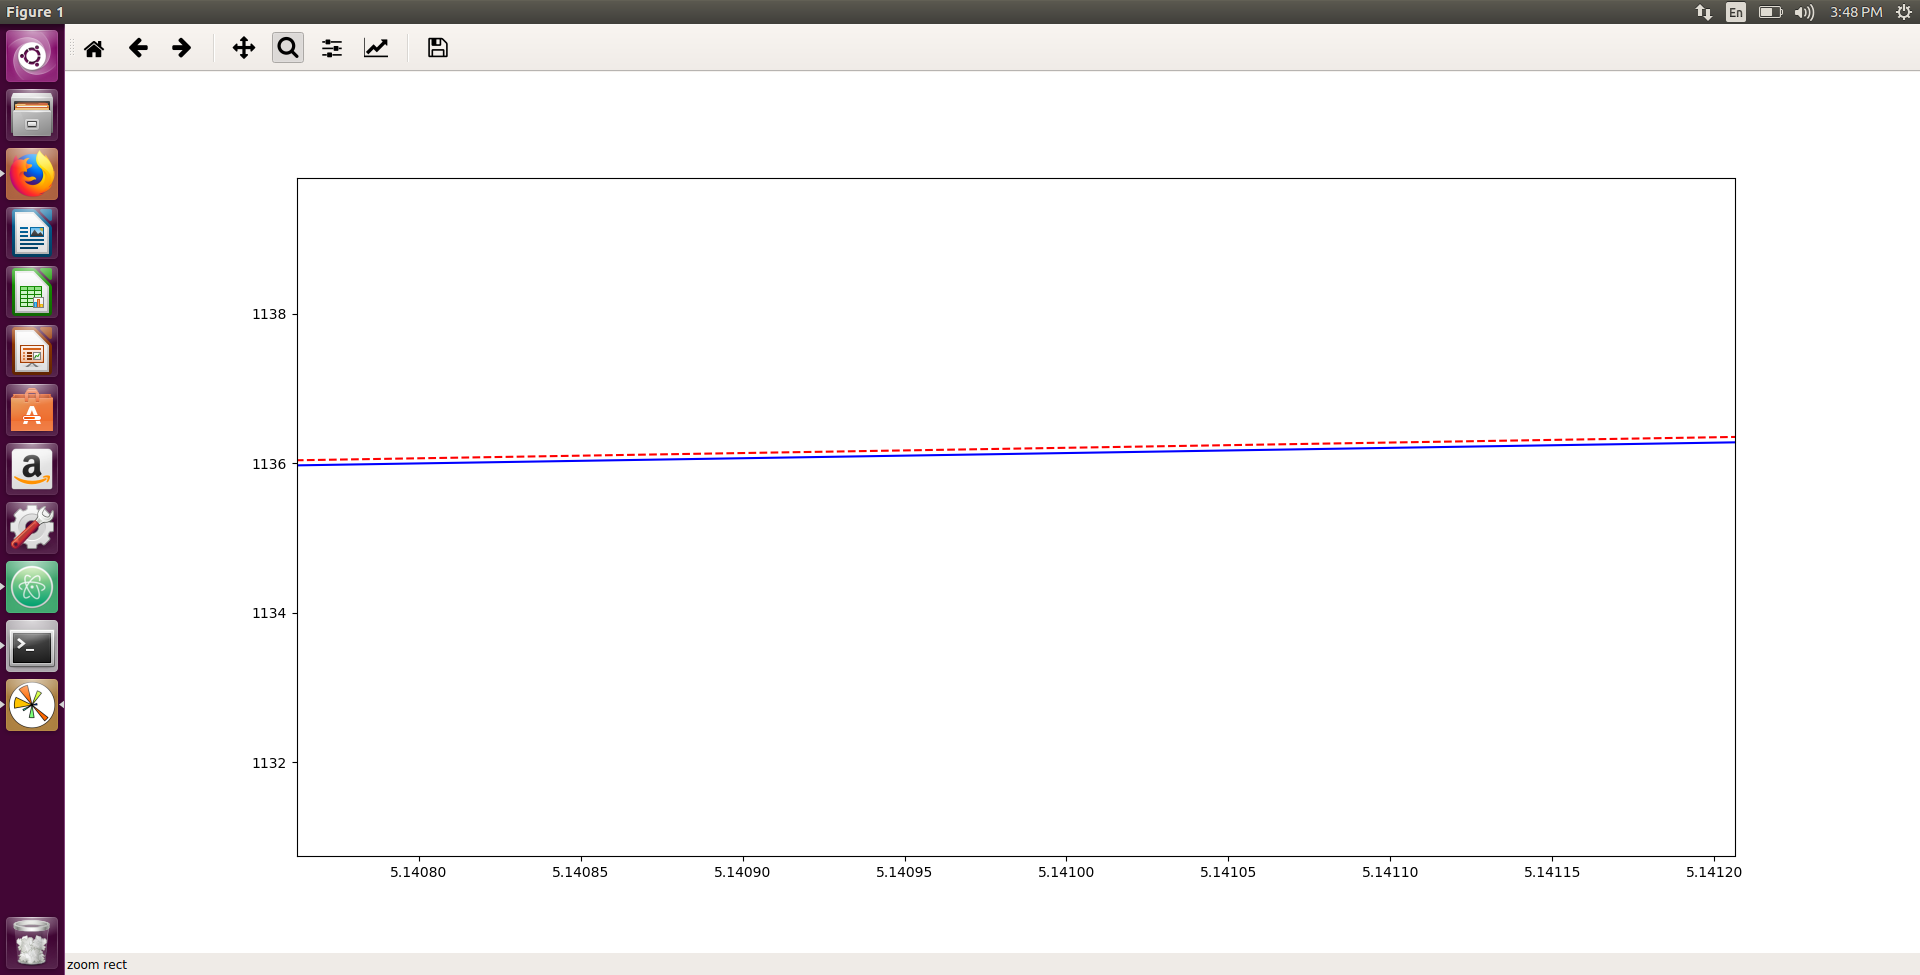
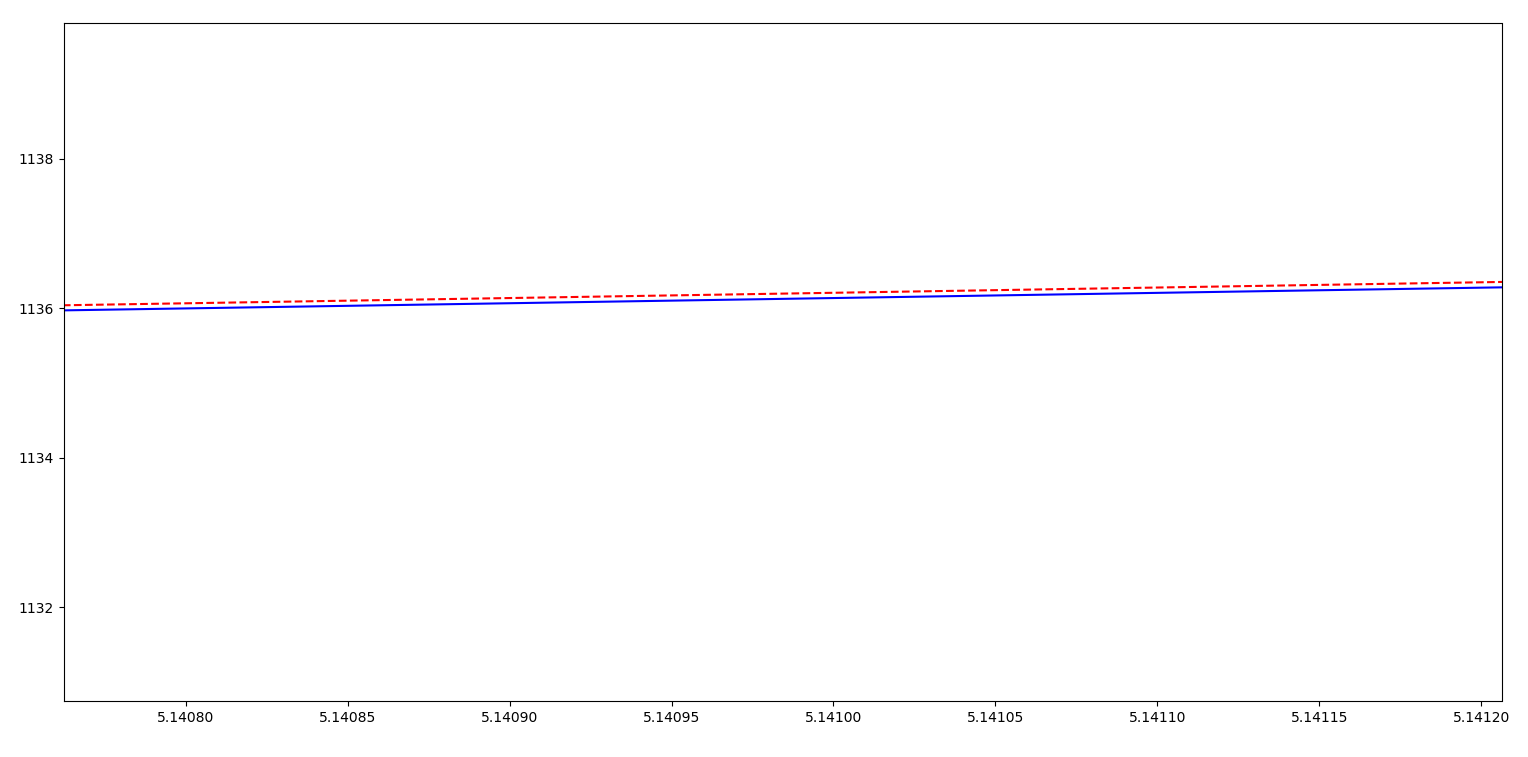
Edited Images of graphs

diff --git a/README.md b/README.md
@@ -34,8 +34,10 @@ With 2 4 -1 as weights:
 
 
 **Up close screenshot**
-
+![alt text](images/graph1Closeup.png)
 
 **Given 10 -10 10 -10**
+![alt text](images/graph2.png)
 
 **Upclose screenshot**
+![alt text](images/graph2Closeup.png)
